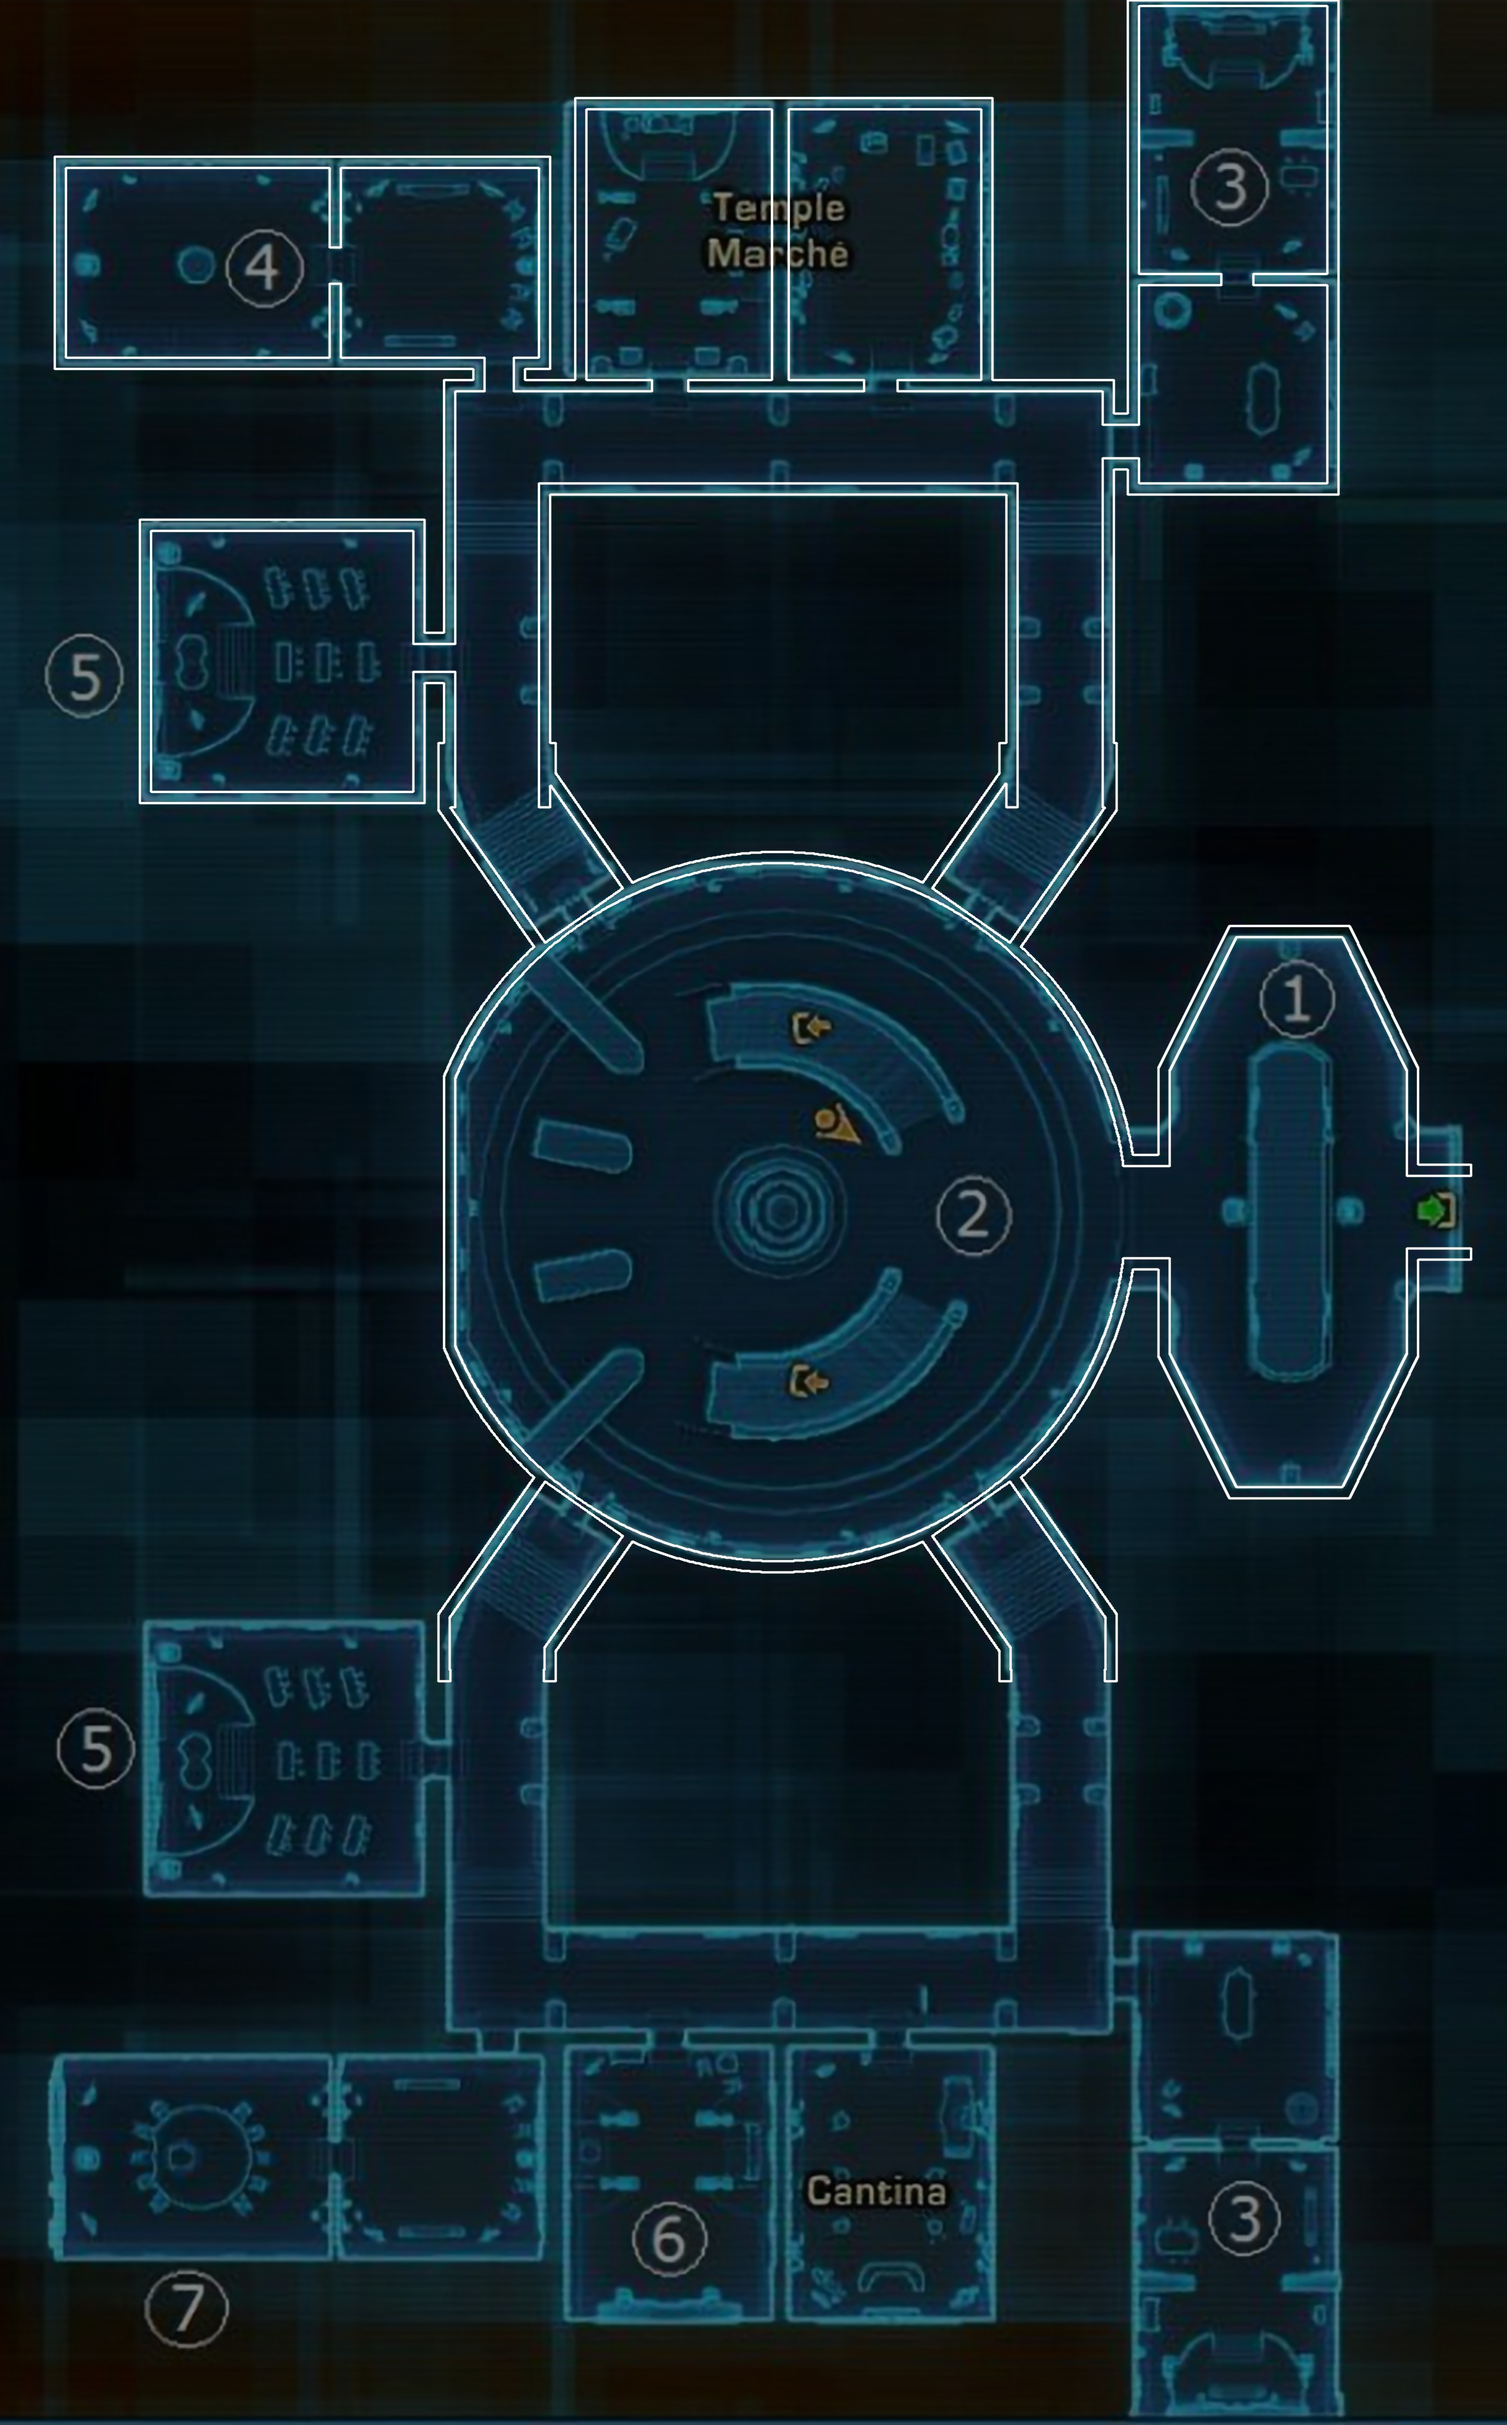
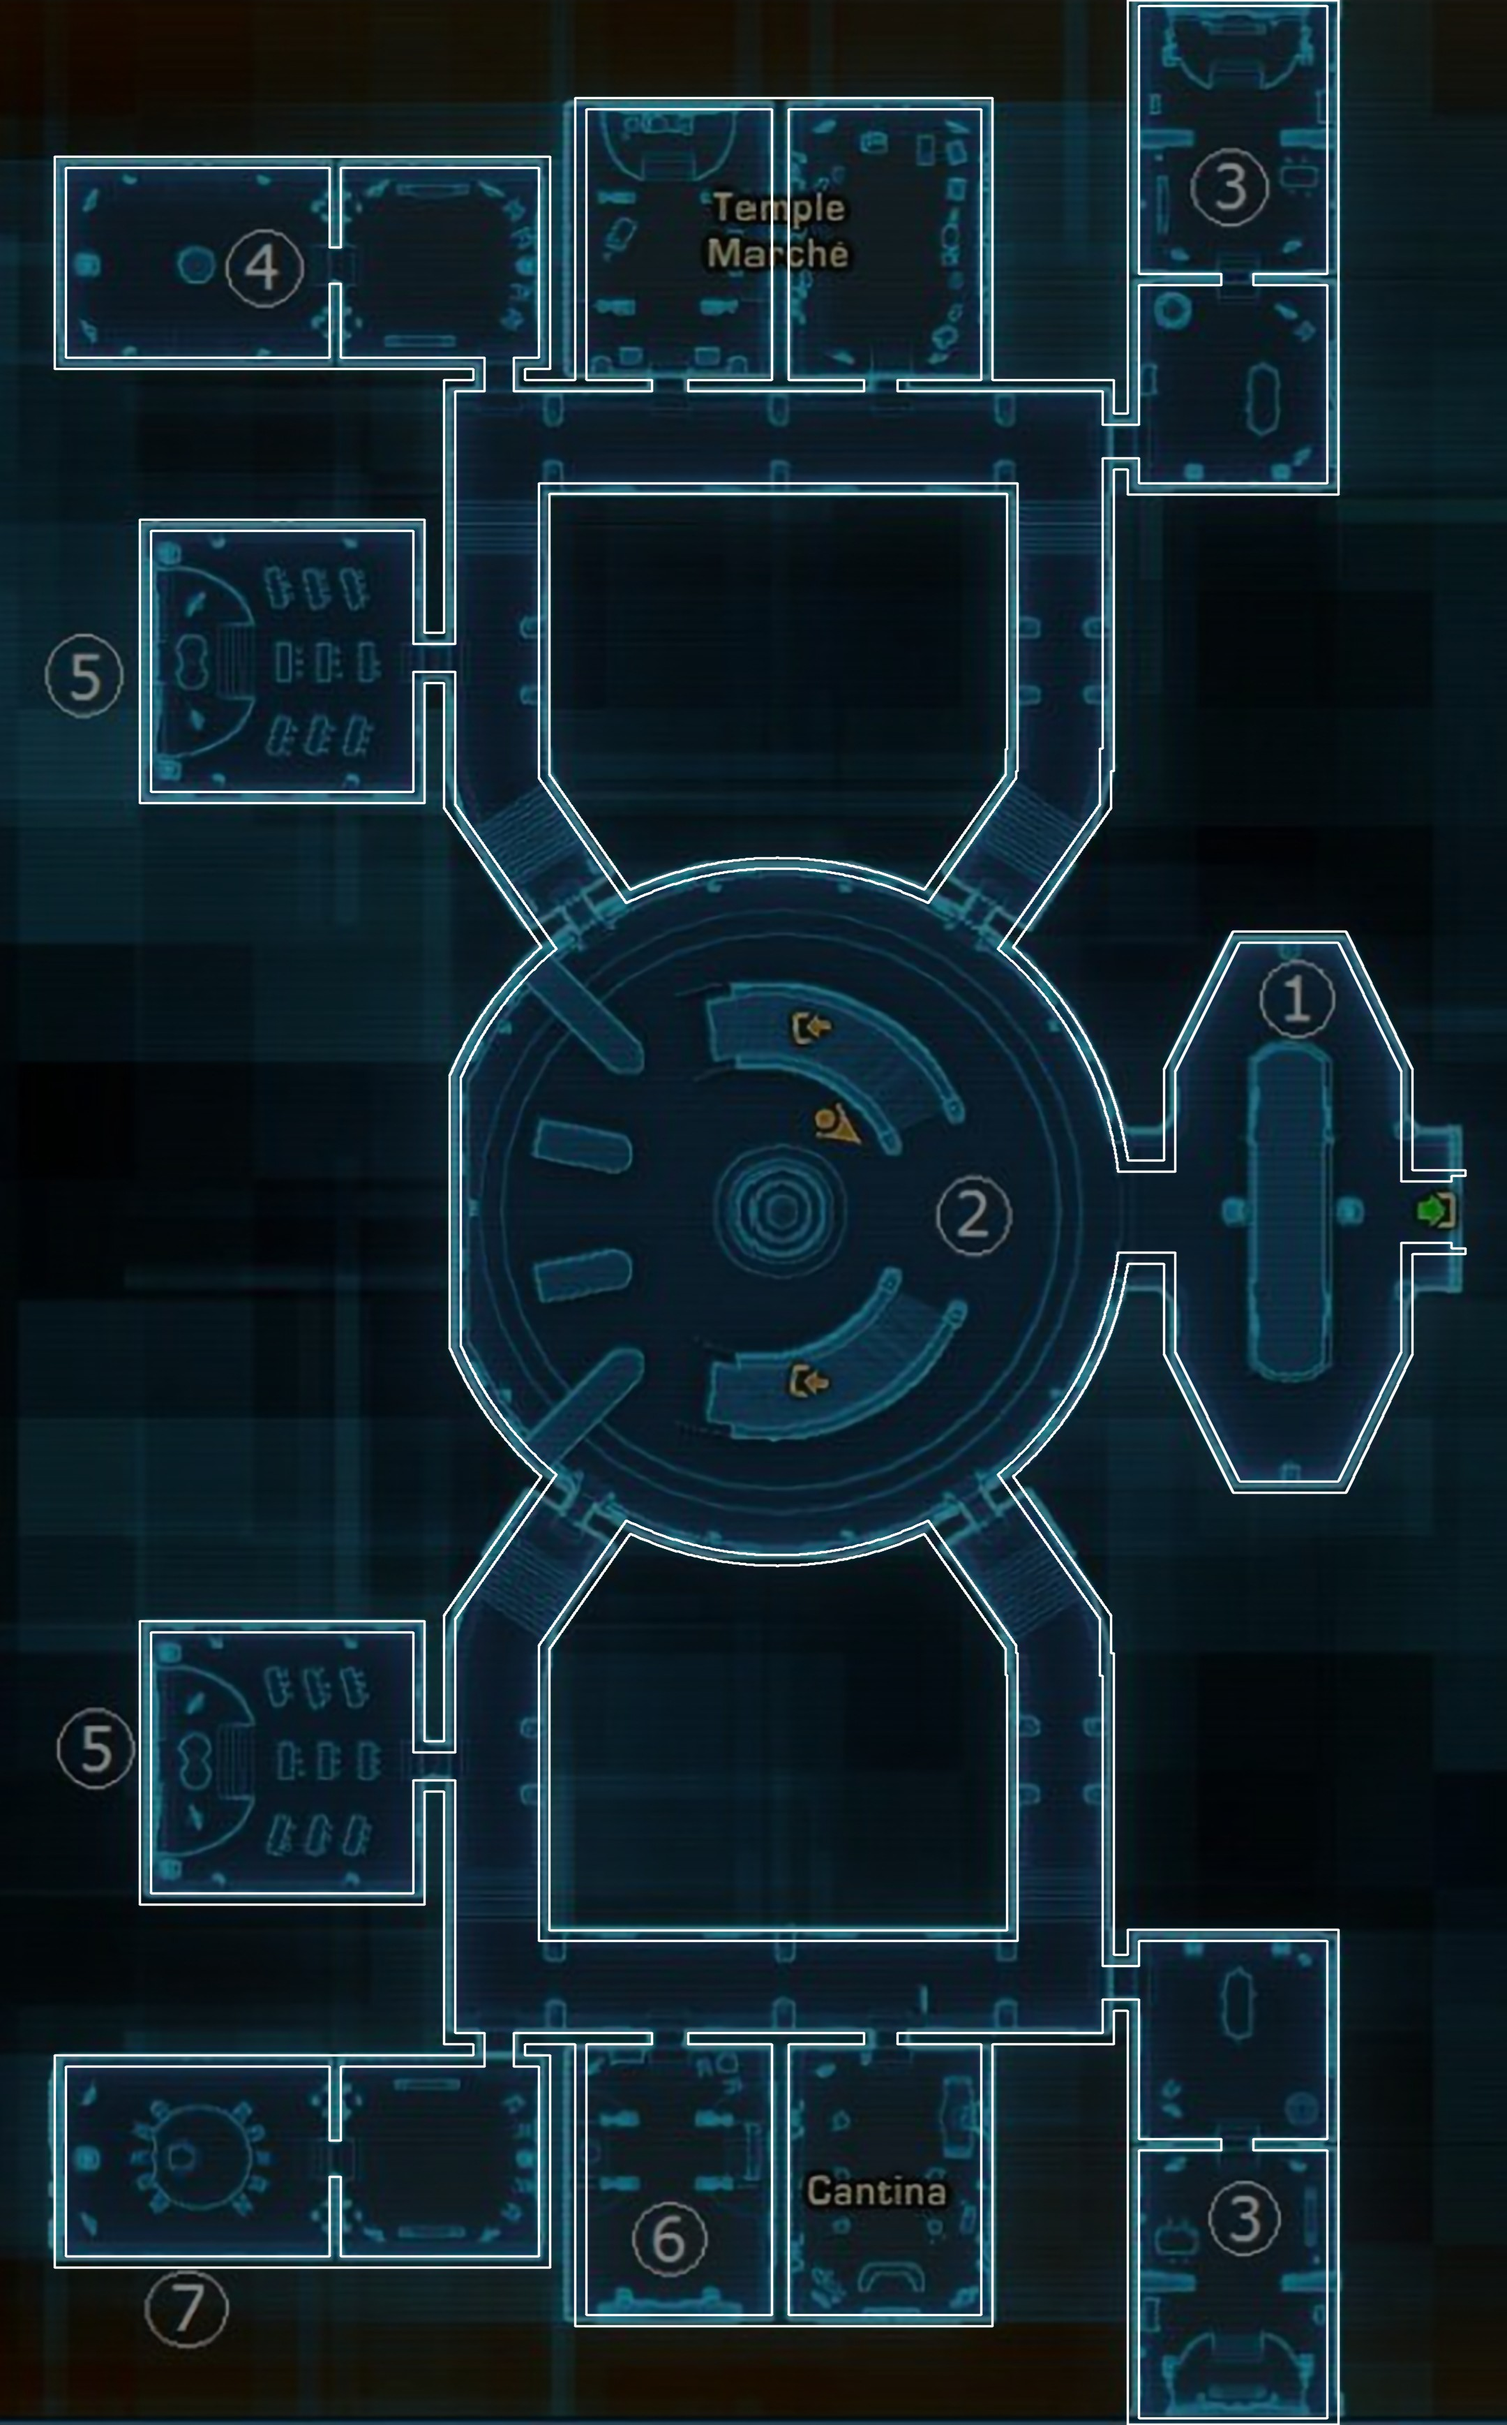
v13.20: whole temple plan, mirrored bottom, hallway doors into the hall, no jogs
Claude-Session: https://claude.ai/code/session_01SinQW9aeLHqCBjq9e21Gyo

diff --git a/web_shell.html b/web_shell.html
@@ -4,8 +4,8 @@
 <meta charset="utf-8">
 <meta name="viewport" content="width=device-width,initial-scale=1,maximum-scale=1,user-scalable=no,viewport-fit=cover">
 <meta name="theme-color" content="#f6f9fc">
-<meta name="hl-version" content="v13.19">
-<title>Homelancer Digital v13.19</title>
+<meta name="hl-version" content="v13.20">
+<title>Homelancer Digital v13.20</title>
 <style>
 *{box-sizing:border-box}
 html,body{margin:0;width:100%;height:100%;background:#f6f9fc;color:#0e2f5a;font:16px system-ui,sans-serif;overflow:hidden;touch-action:none}

diff --git a/tools/trace/temple_02/eng/build_plan.py b/tools/trace/temple_02/eng/build_plan.py
@@ -1,0 +1,65 @@
+#!/usr/bin/env python3
+"""Temple Marché level as a clean engineering plan (owner-approved method, 11 Nov 2026).
+Walls are centre lines on the map's own measured wall lines, one thickness, doors as openings. The level is mirror
+symmetric top/bottom about y = CY (owner: "mirror that map"), so the top band is drawn once and mirrored.
+Hallways = centre line + fixed width (walls always parallel through bends). Output: plan.png, plan_on_map.jpg,
+plan_walls.json (wall polygons, crop px). usage: python3 -I build_plan.py"""
+import json, os
+import cv2, numpy as np
+from shapely.geometry import Point, LineString, Polygon, box, mapping
+from shapely.ops import unary_union
+from shapely import affinity
+
+HERE = os.path.dirname(os.path.abspath(__file__))
+SRC = os.path.join(HERE, "..", "source_crop.png")
+CX, CY = 557.0, 868.0          # hall centre; the level mirrors about y = CY and the stair halls about x = CX
+T = 8.0                         # wall thickness
+
+# ---- top band: wall centre lines measured from the map (Hough), doors = (start, end) along the wall
+top = json.load(open(os.path.join(HERE, "top_band_walls.json")))
+pieces = []
+for k, (p1, p2, doors) in top["walls"].items():
+    th = top.get("thick_walls", {}).get(k, T)
+    (x1, y1), (x2, y2) = p1, p2
+    if k in ("cor_l", "cor_r", "cor_il", "cor_ir"): y2 = 548.0       # the stair hallway takes over from here
+    horiz = y1 == y2
+    a0, a1 = (x1, x2) if horiz else (y1, y2)
+    cuts = [a0] + [v for d in doors for v in d] + [a1]
+    for i in range(0, len(cuts), 2):
+        a, b = cuts[i], cuts[i + 1]
+        ea = a - (T / 2 if i == 0 else 0); eb = b + (T / 2 if i == len(cuts) - 2 else 0)
+        pieces.append(box(ea, y1 - th / 2, eb, y1 + th / 2) if horiz else box(x1 - th / 2, ea, x1 + th / 2, eb))
+top_walls = unary_union(pieces)
+
+# ---- middle: round hall (circle fit, flat west side), four stair hallways, room 1
+R, X_FLAT, W, ANG = 250.0, 326.0, 68.0, 55.0
+m0 = np.array([358.0, 569.5]); d = np.array([np.cos(np.radians(ANG)), np.sin(np.radians(ANG))])
+bend = m0 + d * ((356.0 - m0[0]) / d[0])
+end = bend + d * 200.0                      # runs on into the hall: the hallway opens into it (a door, no wall)
+q = LineString([(356.0, 530.0), tuple(bend), tuple(end)])
+halls = [affinity.scale(q, xfact=sx, yfact=sy, origin=(CX, CY)) for sx in (1, -1) for sy in (1, -1)]
+hall = Point(CX, CY).buffer(R, 256).intersection(box(X_FLAT, 0, 3000, 3000))
+corr = [h.buffer(W / 2, cap_style=2, join_style=2, mitre_limit=5).difference(box(0, 0, 3000, 540)).difference(box(0, 2 * CY - 540, 3000, 4000)) for h in halls]
+room1 = Polygon([(886, 671), (962, 671), (1008, 767), (1008, 969), (962, 1065), (886, 1065), (838, 969), (838, 767)])
+floor = unary_union([hall] + corr + [room1, box(CX + R - 20, 835, 848, 901), box(1000, 842, 1046, 894)])
+mid_walls = floor.buffer(T / 2, join_style=2).difference(floor.buffer(-T / 2, join_style=2))   # centred on the floor edge
+for o in [box(1040, 842, 1080, 894)] + [box(xc - W / 2 + T / 2, 0, xc + W / 2 - T / 2, 548) for xc in (356, 2 * CX - 356)] \
+        + [box(xc - W / 2 + T / 2, 2 * CY - 548, xc + W / 2 - T / 2, 4000) for xc in (356, 2 * CX - 356)]:
+    mid_walls = mid_walls.difference(o)
+
+walls = unary_union([top_walls, affinity.scale(top_walls, yfact=-1, origin=(0, CY)), mid_walls])
+
+# ---- draw
+c = cv2.imread(SRC); S = 2
+H, Wd = c.shape[:2]
+mask = np.zeros((H * S, Wd * S), np.uint8)
+for p in getattr(walls, "geoms", [walls]):
+    cv2.fillPoly(mask, [np.array([(x * S, y * S) for x, y in p.exterior.coords], np.int32)], 255)
+    for r in p.interiors: cv2.fillPoly(mask, [np.array([(x * S, y * S) for x, y in r.coords], np.int32)], 0)
+cs, _ = cv2.findContours(mask, cv2.RETR_CCOMP, cv2.CHAIN_APPROX_SIMPLE)
+plan = np.zeros((H * S, Wd * S, 3), np.uint8); ov = cv2.resize((c * 0.55).astype(np.uint8), None, fx=S, fy=S)
+for im in (plan, ov): cv2.drawContours(im, cs, -1, (255, 255, 255), 2, cv2.LINE_AA)
+cv2.imwrite(os.path.join(HERE, "plan.png"), plan)
+cv2.imwrite(os.path.join(HERE, "plan_on_map.jpg"), ov, [cv2.IMWRITE_JPEG_QUALITY, 90])
+json.dump({"units": "crop px", "thickness": T, "mirror_y": CY, "walls": mapping(walls)}, open(os.path.join(HERE, "plan_walls.json"), "w"))
+print("wall pieces:", len(getattr(walls, "geoms", [walls])))

diff --git a/docs/V1.2_BUILD.md b/docs/V1.2_BUILD.md
@@ -2138,3 +2138,7 @@ the camera automatically does a zoom to that section ... helmet, body, lower bod
 
 ## v13.19 — temple plan laid on the original map (no game change)
 - `eng/plan_on_map.jpg`: top band + middle band in white over the owner's screenshot, for checking.
+
+## v13.20 — whole temple plan (no game change)
+- Owner: stair hallways need a door into the round hall; no little piece sticking out where the hallway meets the corridor; the map mirrors top to bottom.
+- `eng/build_plan.py` builds the whole level: top band mirrored about y=868 for the bottom, hallways open into the hall, corridor walls hand over to the hallway walls with no jog. Output plan.png, plan_on_map.jpg, plan_walls.json.
